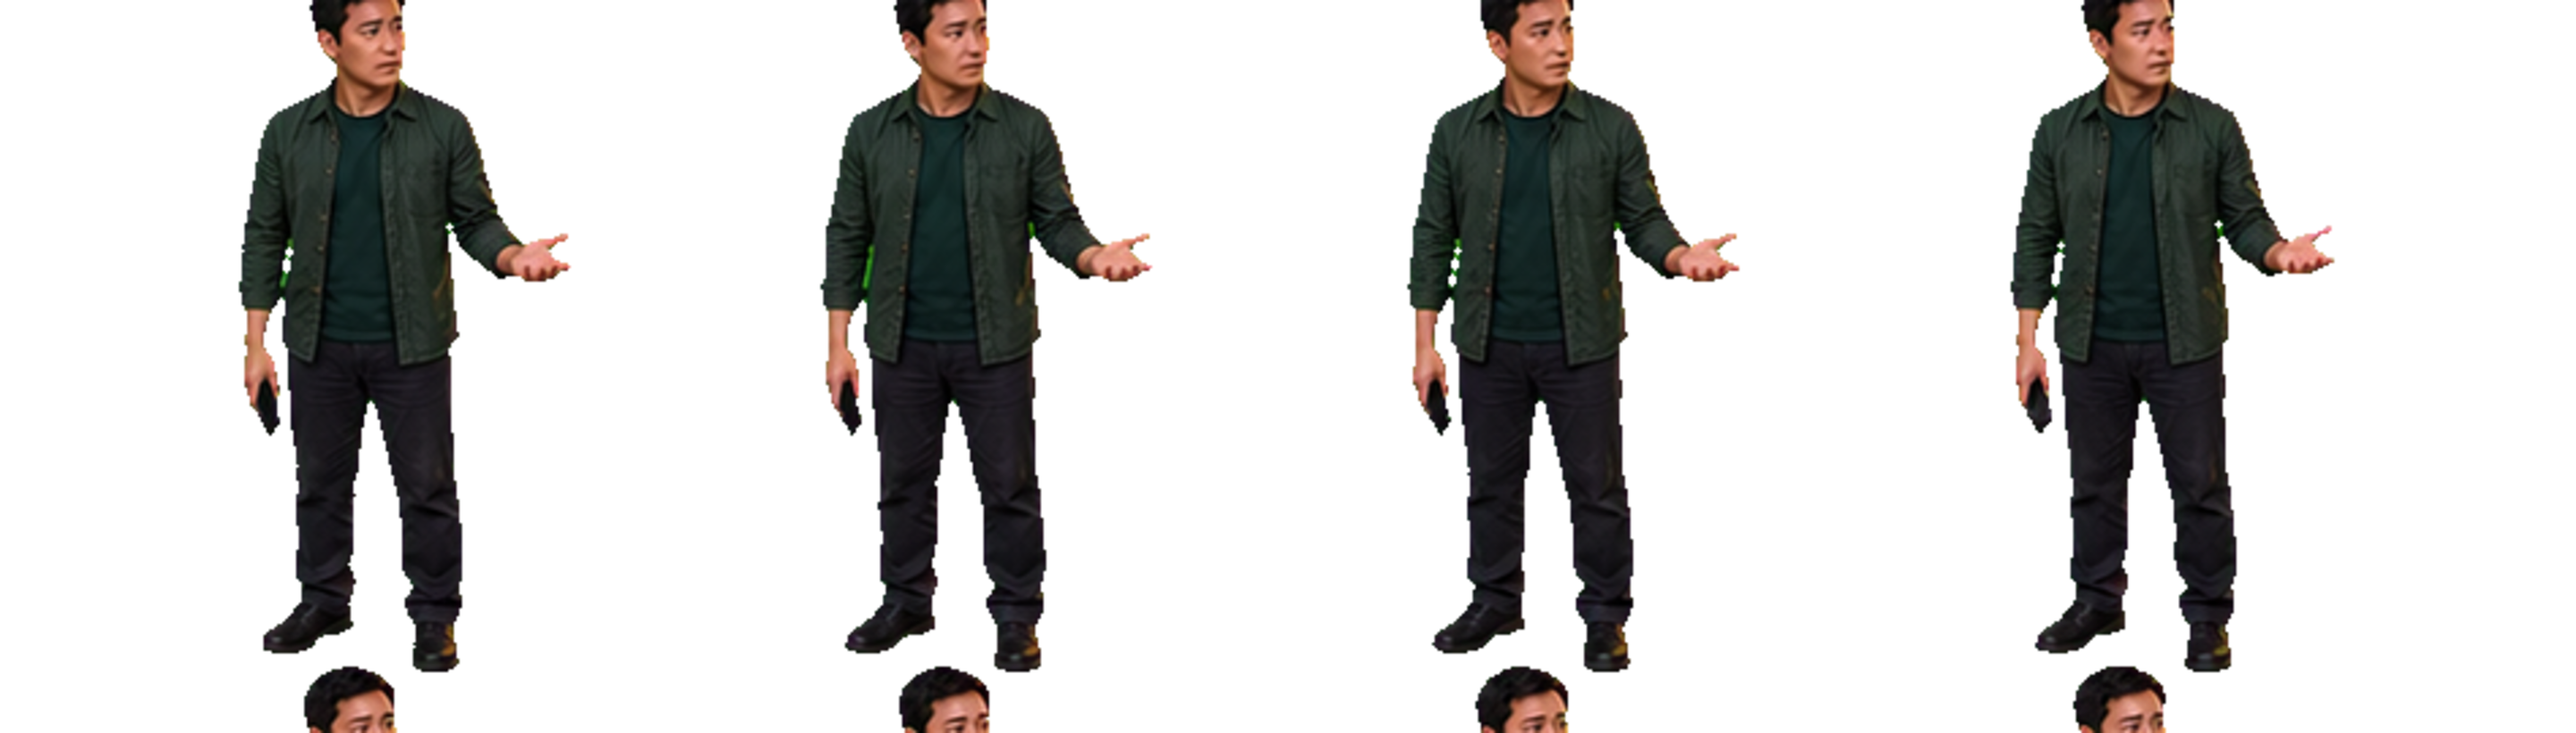
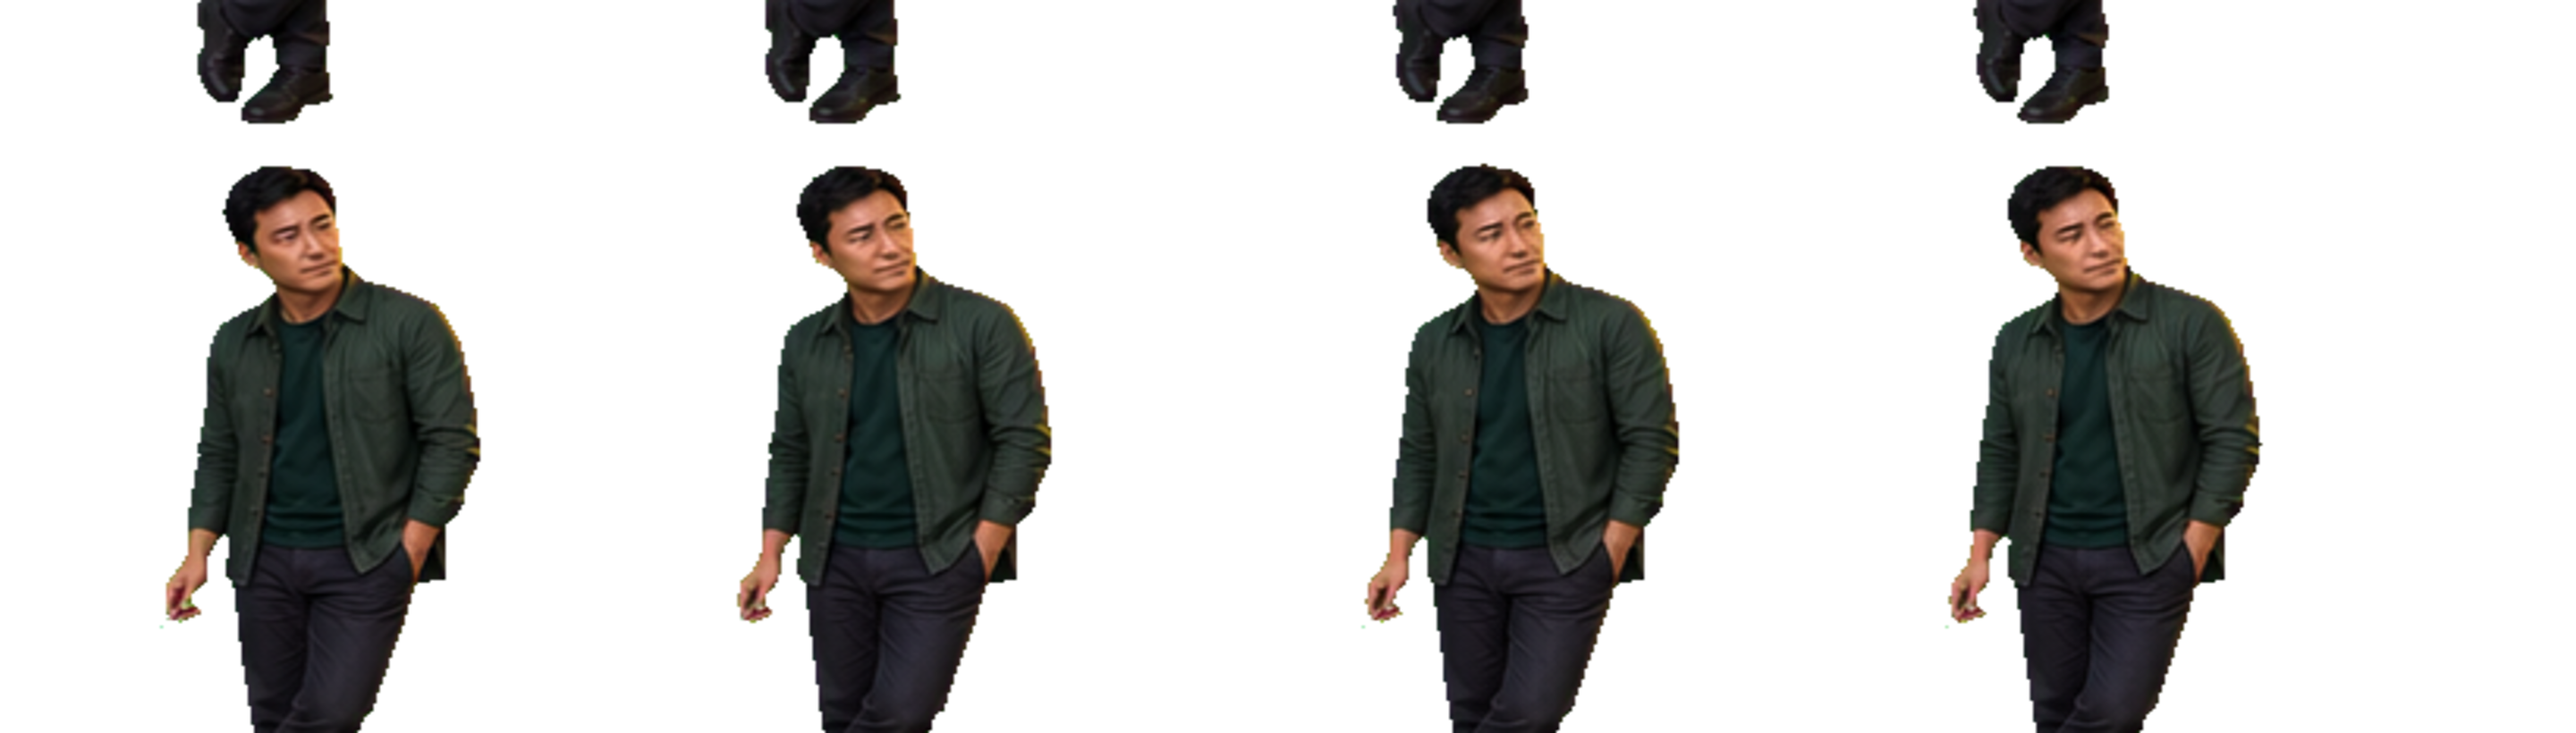
Reframe rooftop as bragging scene

diff --git a/src/core/config.ts b/src/core/config.ts
@@ -181,7 +181,7 @@ export const gameConfig: GameConfig = {
       name: "黄金大师天台局",
       theme: "gold",
       description: "傍晚天台，刚追完黄金的人都说自己不是短线，只是每三分钟看一次价格。",
-      backgroundImage: "/assets/game/rooftop/rooftop-background-v6.png",
+      backgroundImage: "/assets/game/rooftop/rooftop-background-v7.png",
       hint: "别急着补仓",
       enemyName: "接盘幻影",
       enemyDescription: "它把追高包装成理性建议：长期配置，越跌越买，你这是避险。",
@@ -189,12 +189,12 @@ export const gameConfig: GameConfig = {
       machineEmbedded: true,
       completeText: "家庭资产配置已冷冻。嘴硬可以，别拿嘴硬当策略。",
       hotspots: [
-        { id: "h1", evidenceId: "gold_receipt", x: 40.2, y: 42.8, hitX: 40.2, hitY: 42.8, hitWidth: 4.4, hitHeight: 5.2, radius: 7, label: "金店小票", found: false, renderMode: "embedded", revealText: "小票垫不住追高的手", animationKind: "receipt" },
-        { id: "h2", evidenceId: "hedge_group", x: 28.4, y: 42.4, hitX: 28.4, hitY: 42.4, hitWidth: 4.2, hitHeight: 6.8, radius: 8, label: "稳健避险交流群", found: false, renderMode: "embedded", revealText: "每三分钟问一次，还叫长期", animationKind: "chat" },
-        { id: "h3", evidenceId: "risk_headline", x: 88.4, y: 29.6, hitX: 88.4, hitY: 29.6, hitWidth: 8.4, hitHeight: 11.2, radius: 8, label: "避险快讯截图", found: false, renderMode: "embedded", revealText: "没有来源的标题，最会替你下单", animationKind: "news" },
-        { id: "h4", evidenceId: "price_alarm", x: 73.2, y: 52.4, hitX: 73.2, hitY: 52.4, hitWidth: 5.2, hitHeight: 8.8, radius: 7, label: "跌幅提醒手机", found: false, renderMode: "embedded", revealText: "长期资产正在被五分钟一刷审问", animationKind: "alert" },
-        { id: "h5", evidenceId: "rooftop_warning", x: 27.5, y: 17.9, hitX: 27.5, hitY: 17.9, hitWidth: 5.2, hitHeight: 7.2, radius: 8, label: "敏感行情告示", found: false, renderMode: "embedded", revealText: "天台门口已经替你写了风险提示", animationKind: "sign" },
-        { id: "h6", evidenceId: "leverage_contract", x: 8.8, y: 75.2, hitX: 8.8, hitY: 75.2, hitWidth: 7.2, hitHeight: 9.4, radius: 7, label: "杠杆合同边角", found: false, renderMode: "embedded", revealText: "借来的底气已经躲到管道边", animationKind: "contract" }
+        { id: "h1", evidenceId: "gold_receipt", x: 78.6, y: 81.4, hitX: 78.6, hitY: 81.4, hitWidth: 4.4, hitHeight: 6.4, radius: 7, label: "金店小票", found: false, renderMode: "embedded", revealText: "小票垫不住追高的手", animationKind: "receipt" },
+        { id: "h2", evidenceId: "hedge_group", x: 31.4, y: 41.6, hitX: 31.4, hitY: 41.6, hitWidth: 4.8, hitHeight: 8.6, radius: 8, label: "稳健避险交流群", found: false, renderMode: "embedded", revealText: "每三分钟问一次，还叫长期", animationKind: "chat" },
+        { id: "h3", evidenceId: "risk_headline", x: 88.8, y: 29.2, hitX: 88.8, hitY: 29.2, hitWidth: 9.4, hitHeight: 13.8, radius: 8, label: "避险快讯截图", found: false, renderMode: "embedded", revealText: "没有来源的标题，最会替你下单", animationKind: "news" },
+        { id: "h4", evidenceId: "price_alarm", x: 83.5, y: 74.2, hitX: 83.5, hitY: 74.2, hitWidth: 4.4, hitHeight: 6.8, radius: 7, label: "跌幅提醒手机", found: false, renderMode: "embedded", revealText: "长期资产正在被五分钟一刷审问", animationKind: "alert" },
+        { id: "h5", evidenceId: "rooftop_warning", x: 28, y: 21.8, hitX: 28, hitY: 21.8, hitWidth: 4.8, hitHeight: 8.8, radius: 8, label: "敏感行情告示", found: false, renderMode: "embedded", revealText: "天台门口已经替你写了风险提示", animationKind: "sign" },
+        { id: "h6", evidenceId: "leverage_contract", x: 10.8, y: 76.8, hitX: 10.8, hitY: 76.8, hitWidth: 8, hitHeight: 10.8, radius: 7, label: "杠杆合同边角", found: false, renderMode: "embedded", revealText: "借来的底气已经躲到管道边", animationKind: "contract" }
       ]
     },
     {

diff --git a/src/game/scenes/rooftopScene.ts b/src/game/scenes/rooftopScene.ts
@@ -320,9 +320,9 @@ export class RooftopScene extends Phaser.Scene {
     const state = this.getCharacterState();
     this.ensureCharacterAnimations();
     this.addCharacterContactShadows();
-    const sprite = this.add.sprite(612, 666, `trader-${state}`, 0).setDepth(24);
+    const sprite = this.add.sprite(160, 630, `trader-${state}`, 0).setDepth(24);
     const progressIndex = this.getCharacterProgressIndex();
-    const stateScale = progressIndex === characterStates.length - 1 ? 0.47 : 0.56 * (1 + progressIndex * 0.004);
+    const stateScale = progressIndex === characterStates.length - 1 ? 0.44 : 0.46 * (1 + progressIndex * 0.004);
     sprite.setScale(stateScale);
     sprite.setOrigin(0.5, 0.98);
     sprite.setTint(0xa7a08a);
@@ -352,9 +352,9 @@ export class RooftopScene extends Phaser.Scene {
   }
 
   private addCharacterContactShadows(): void {
-    this.add.ellipse(612, 666, 150, 22, 0x03100c, 0.25).setDepth(23).setAngle(-5);
-    this.add.ellipse(558, 678, 72, 12, 0x03100c, 0.16).setDepth(23).setAngle(-10);
-    this.add.ellipse(674, 674, 64, 11, 0x03100c, 0.13).setDepth(23).setAngle(6);
+    this.add.ellipse(160, 630, 116, 18, 0x03100c, 0.24).setDepth(23).setAngle(-7);
+    this.add.ellipse(118, 640, 54, 9, 0x03100c, 0.16).setDepth(23).setAngle(-12);
+    this.add.ellipse(202, 638, 50, 9, 0x03100c, 0.12).setDepth(23).setAngle(5);
   }
 
   private getCharacterState(): CharacterState {

diff --git a/src/game/preloadScene.ts b/src/game/preloadScene.ts
@@ -7,7 +7,7 @@ export class PreloadScene extends Phaser.Scene {
   preload(): void {
     this.load.image("office-background", "/assets/game/office/office-background-clean.png");
     this.load.image("office-foreground", "/assets/game/office/office-foreground-occluders.png");
-    this.load.image("rooftop-background", "/assets/game/rooftop/rooftop-background-v6.png");
+    this.load.image("rooftop-background", "/assets/game/rooftop/rooftop-background-v7.png");
     this.load.image("rooftop-cooling-furnace", "/assets/game/rooftop/machines/cooling-furnace.png");
     [
       ["h1", "/assets/game/rooftop/clues/folded-receipt.png"],

diff --git a/TASK_STATE.md b/TASK_STATE.md
@@ -95,6 +95,9 @@ The second level is now wired as a playable Phaser flow and has been rebuilt wit
 - Done: strengthened the active hint marker with a local double outline and dot; Playwright verified the sixth hint lands on `杠杆合同边角` after the first five rooftop clues are found.
 - Done: replaced the old seated rooftop trader spritesheets with standing full-body protagonist spritesheets generated on chroma key and converted into the existing `progress-0` through `progress-6` Phaser sheet contract.
 - Done: changed the rooftop protagonist from a wall/ground seated pose to a grounded standing pose, retuned his scene scale, origin, shadow, and completion-state scale so the character reads closer to the background adults.
+- Done: replaced the v6 rooftop plate with `public/assets/game/rooftop/rooftop-background-v7.png`, changing the background adults from work/inspection poses into a casual rooftop bragging session with phones, drinks, rumor sheets, snacks, receipts, and an ashtray.
+- Done: replaced the standing-center protagonist with corner-smoking/cold-smirk protagonist states, moved him into the left corner, and retuned scale/shadows so he no longer occupies the center of the scene.
+- Done: retuned v7 clue hotspots for the new composition and separated the right-side `金店小票` and `跌幅提醒手机` hit zones so Playwright can click each clue cleanly.
 - QA finding resolved: the previous script-generated flat/sticker mismatch has been replaced by unified bitmap scene art.
 - QA finding resolved: the quick-news clipping now sits on the rooftop floor instead of floating.
 - QA finding resolved: green chroma-key fringe was removed from transparent character and prop assets.
@@ -111,6 +114,8 @@ The second level is now wired as a playable Phaser flow and has been rebuilt wit
 - QA finding resolved: h1/h2 access hotspots no longer overlap, so label-based clicks hit the intended clue.
 - QA finding resolved: the sixth hint waits for the rewarded-ad flow and then highlights the remaining contract clue visibly.
 - QA finding resolved: the protagonist is no longer the old small seated cutout; Playwright screenshots `artifacts/rooftop-standing-progress-0.png` and `artifacts/rooftop-standing-progress-6.png` verify the replacement standing state in both start and completion states.
+- QA finding resolved: the background adults no longer read as working on the rooftop; the v7 plate frames them as phone-checking, drinking, rumor-reading, and bragging.
+- QA finding resolved: the protagonist is now in the left corner smoking/cold-smiling instead of standing in the center foreground; Playwright screenshots `artifacts/rooftop-v7-progress-0.png` and `artifacts/rooftop-v7-progress-6.png` verify start and completion states.
 - Remaining QA risk: final user visual approval is still needed, but the runtime no longer relies on placeholder SVG/vector-generated rooftop assets.
 
 Second-level optimization plan:
